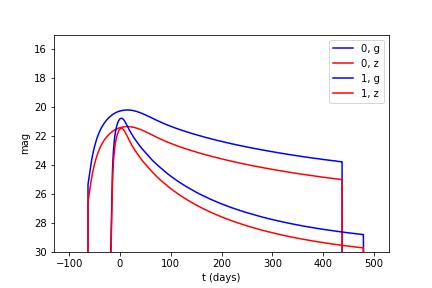
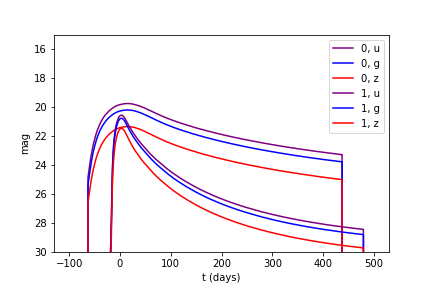
filling out

diff --git a/index.rst b/index.rst
@@ -58,9 +58,9 @@ Introduction
 
 In this tech note we discuss science metrics for two types of transient objects, fast microlensing events and tidal disruption events (TDEs).
 
-Code for running these metrics and generating the plots in this note are in a jupyter notebook microlensing_and_tde_metrics.ipynb xxx-link to github.
+Code for running these metrics and generating the plots in this note are in a `jupyter notebook <https://github.com/lsst-sims/smtn-013/microlensing_and_tde_metrics.ipynb>`__.
 
-xxx-are we applying dust to TDEs?
+xxx-are we applying dust to TDEs?--yes!
 
 For both of these metrics, we will compare their performance on two different simulatied surveys, `baseline_nexp2_v1_6` and `combo_dust_nexp2_v1_6`. The main diffference between these simulations is `combo_dust_nexp2_v1_6` avoids dusty regions of the galactic plane and covers the bulge as part of the wide-fast-deep survey.
 
@@ -82,18 +82,47 @@ Tidal Disruption Events
 
    Example light curve shapes used for TDEs. 
 
+XXX--we generate a population of TDEs with properties drawn from XXX.
+
+We apply dust extinction to the generated magnitudes and test three different detection criteria:
+
+#. pre-peak: 
+#. some color:
+#. some color plus u:
+
+
+.. image:: /_static/tde_input.png
+   :width: 33%
+.. image:: /_static/thumb.baseline_nexp2_v1_6_10yrs_TDEsPopMetric_prepeak_USER_SkyMap.png
+   :width: 33%
+.. image:: /_static/thumb.combo_dust_nexp2_v1_6_10yrs_TDEsPopMetric_prepeak_USER_SkyMap.png
+   :width: 33%
+
+The left shows the locations of simulated TDE events. The middle and right panels show the events that meet the pre-peak detection criteria. There is minimal difference between the two simulations, with 24% being detected in the baseline and 25% being detected in combo_dust.
+
+
+
+.. image:: /_static/tde_input.png
+   :width: 33%
+.. image:: /_static/thumb.baseline_nexp2_v1_6_10yrs_TDEsPopMetric_some_color_pu_USER_SkyMap.png
+   :width: 33%
+.. image:: /_static/thumb.combo_dust_nexp2_v1_6_10yrs_TDEsPopMetric_some_color_pu_USER_SkyMap.png
+   :width: 33%
+
+Like before, only now showing the input population and the events that meet the most stringent detection criteria. The baseline detects 2% and combo_dust detects 1.97% of the TDE events.
 
 
 
 Microlensing
 ============
 
-Microlensing events are generated with a crossing times drawn uniformly from 1 to 10 days, and impact parameters drawn from 0 to 1, and distributed on the sky 
-
+Microlensing events are generated with a crossing times drawn uniformly from 1 to 10 days, and impact parameters drawn from 0 to 1, and distributed on the sky proportionally to the stellar density squared. We use TRIlegal Milky Way model to estimate the stellar density, including the LMC and SMC.  By default, an r=22 magniude star is assumed to be the lensed source.
 
 
 xxx---the criteria for detecting a microlensing event:  
-2 points detected before maximum, and 2 points detected post maximum. By default, we assume the lensed object is an r=20 point source (flat SED) and demand that the amplification be detected at the 3-sigma level, e.g., a point on the light curve must have sufficient SNR to be detected at the catalog level as amplified from a previous observation at the 3-sigma level. 
+2 points detected before maximum, and 2 points detected post maximum. 
+
+By default, we assume the lensed object is an r=20 point source (flat SED) and demand that the amplification be detected at the 3-sigma level, e.g., a point on the light curve must have sufficient SNR to be detected at the catalog level as amplified from a previous observation at the 3-sigma level. 
 
 
 .. figure:: /_static/microlensing_lc.png
@@ -116,8 +145,9 @@ The images above show the input microlensing events along with the recovered eve
 Extending to Other Populations
 ==============================
 
-These transient metrics can be used as a templates for writing metrics for other transient populations. The basic steps for any transient metric are to 1) Generate a population of transients, 2) Define a criteria for a transient to be "detected" (and/or well-detected), 3) Use MAF to generate the expected observed light curves and check to see what fraction meet the detection criteria.
+These transient metrics can be used as a templates for writing metrics for other transient populations. The basic steps for any transient metric are to 1) Generate a population of transients, 2) Define a criteria for a transient to be "detected" (and/or well-detected), 3) Use MAF and a simulated observing strategy to generate the observed light curves and check to see what fraction meet the detection criteria.
 
+The source for the `TDE metric <https://github.com/LSST-nonproject/sims_maf_contrib/blob/master/mafContrib/TDEsPopMetric.py>`__ and `Microlensing metric <https://github.com/LSST-nonproject/sims_maf_contrib/blob/master/mafContrib/microlensingMetric.py>`__ are in the sims_maf_contrib repo.
 
 
 
